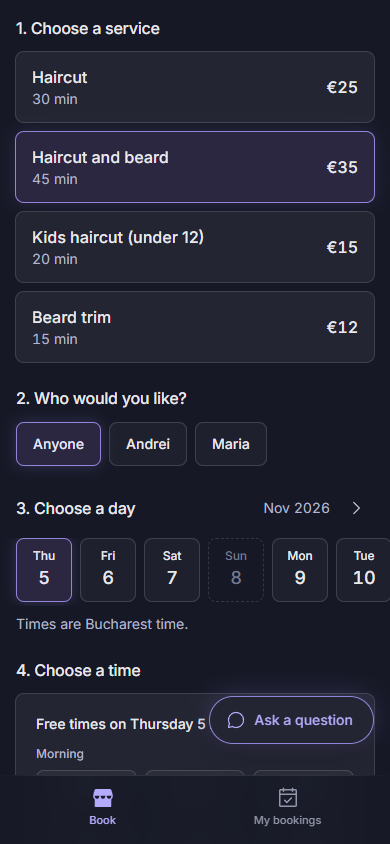
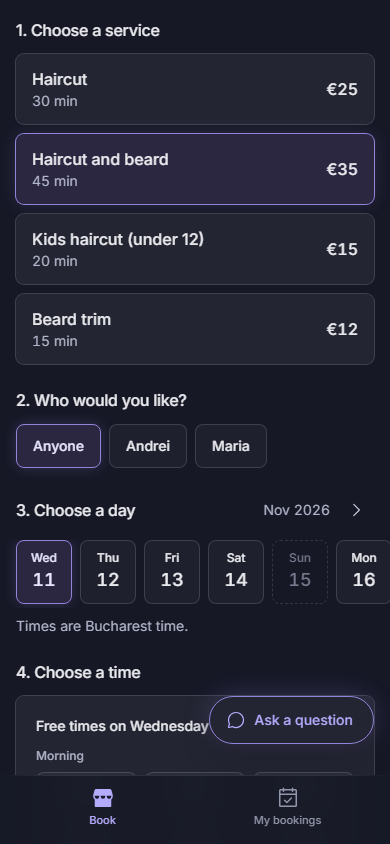
Bookbell: EN · RO switch over the screens, drop Read the code
Fresh screenshots of the same demo day in English and Romanian; a small
card-stock switch (hidden without JavaScript) swaps the three screens and
their descriptions. Only Try the live demo stays under the text.

diff --git a/index.html b/index.html
@@ -96,17 +96,27 @@
       <p class="release-tag">Online booking for small shops.</p>
     </div>
 
+    <!-- The app speaks English and Romanian: this switch swaps the three screens (script.js). Hidden without JavaScript, so the English screens just show. -->
+    <div class="lang-pick" role="group" aria-label="Language of the app screens" hidden>
+      <button type="button" data-lang="en" aria-pressed="true">EN</button>
+      <span aria-hidden="true">·</span>
+      <button type="button" data-lang="ro" aria-pressed="false" lang="ro">RO</button>
+    </div>
+
     <ul class="inserts" aria-label="Screens from the live Bookbell app">
       <li class="insert">
-        <img src="assets/screens/bookbell-today.png" alt="Bookbell owner's Today screen: a Next up card for the 09:30 haircut with Call, Email and Details buttons, then the whole day's bookings with a glowing line for now, and a tab bar with a round plus button" width="390" height="844" loading="lazy">
+        <img src="assets/screens/bookbell-today.png" alt="Bookbell owner's Today screen: a Next up card for the 09:30 haircut with Call, Email and Details buttons, then the whole day's bookings with a glowing line for now, and a tab bar with a round plus button" width="390" height="844" loading="lazy"
+          data-ro-src="assets/screens/bookbell-today-ro.png" data-ro-alt="The owner's Today screen in Romanian (Azi): the Next up card (Urmează, la 09:30) with Call, Email and Details buttons, then the whole day's bookings, and the tab bar Azi, Calendar, Programări, Salon">
         <p class="insert-label">Owner's Today</p>
       </li>
       <li class="insert">
-        <img src="assets/screens/bookbell-booking.png" alt="Bookbell booking page for a demo barber shop: services with prices, Haircut and beard selected, a choice of barber, and a strip of days to choose from" width="390" height="844" loading="lazy">
+        <img src="assets/screens/bookbell-booking.png" alt="Bookbell booking page for a demo barber shop: services with prices, Haircut and beard selected, a choice of barber, and a strip of days to choose from" width="390" height="844" loading="lazy"
+          data-ro-src="assets/screens/bookbell-booking-ro.png" data-ro-alt="The booking page in Romanian for Frizeria Demo: services priced in lei, Tuns și barbă selected, a choice of barber (Oricine, Andrei, Maria), and a strip of days to choose from">
         <p class="insert-label">Booking page</p>
       </li>
       <li class="insert">
-        <img src="assets/screens/bookbell-my-bookings.png" alt="Bookbell My bookings for a customer: two upcoming bookings, each with the time, service, price and shop, and buttons to change the time, add it to a calendar or cancel" width="390" height="844" loading="lazy">
+        <img src="assets/screens/bookbell-my-bookings.png" alt="Bookbell My bookings for a customer: two upcoming bookings, each with the time, service, price and shop, and buttons to change the time, add it to a calendar or cancel" width="390" height="844" loading="lazy"
+          data-ro-src="assets/screens/bookbell-my-bookings-ro.png" data-ro-alt="My bookings in Romanian (Programările mele): two upcoming bookings at Frizeria Demo with prices in lei, and buttons to change the time (Schimbă ora), add it to a calendar or cancel (Anulează)">
         <p class="insert-label">My bookings</p>
       </li>
     </ul>
@@ -124,7 +134,6 @@
       <p class="built">Next.js · TypeScript · Supabase · Postgres</p>
       <div class="release-links">
         <a class="ghost" href="https://bookbell.vercel.app" rel="noopener">Try the live demo <svg class="ico-sm" aria-hidden="true"><use href="assets/icons.svg#i-arrow"/></svg></a>
-        <a class="ghost" href="https://github.com/ghejus/bookbell" rel="noopener">Read the code <svg class="ico-sm" aria-hidden="true"><use href="assets/icons.svg#i-arrow"/></svg></a>
       </div>
       <p class="fine">Demo shops hold sample data. The chat helper runs in a free practice mode.</p>
     </div>

diff --git a/styles.css b/styles.css
@@ -192,6 +192,32 @@ html, body { overflow-x: clip; }
 .banner span { display: block; }
 .release-tag { font-family: var(--serif); font-size: clamp(1.15rem, 1rem + .5vw, 1.5rem); color: var(--gold); }
 
+/* EN · RO: two little card-stock tabs over the screens. The chosen one is face up (stock with the gold-rule ring); the other is printed in gold on the felt. */
+.lang-pick {
+  margin-top: 56px;
+  display: flex; align-items: center; gap: 10px;
+  font-family: var(--display); font-weight: 800; font-size: 15px; letter-spacing: .14em;
+  color: var(--gold);
+}
+.lang-pick[hidden] { display: none; }
+.lang-pick button {
+  min-width: 52px; min-height: 40px; padding: 8px 12px 7px;
+  border: 0; border-radius: 6px;
+  background: transparent; color: var(--gold);
+  font: inherit; letter-spacing: inherit;
+  box-shadow: inset 0 0 0 1px rgba(201, 154, 62, .55);
+  cursor: pointer;
+  transition: background-color .25s, color .25s, rotate .45s cubic-bezier(.16, 1, .3, 1);
+}
+.lang-pick button:hover { background: rgba(236, 201, 112, .12); }
+.lang-pick button[aria-pressed="true"] {
+  background: var(--stock); color: var(--ink);
+  box-shadow: inset 0 0 0 2px var(--stock), inset 0 0 0 3px var(--gold-rule), 0 6px 12px -4px rgba(0, 0, 0, .5);
+  rotate: -2deg;
+  cursor: default;
+}
+.lang-pick + .inserts { margin-top: 32px; }
+
 .inserts {
   list-style: none; margin: 72px 0 0; padding: 0;
   display: flex; justify-content: center; align-items: flex-start; gap: clamp(24px, 4vw, 64px);
@@ -298,7 +324,7 @@ html, body { overflow-x: clip; }
 }
 @media (prefers-reduced-motion: reduce) {
   html { scroll-behavior: auto; }
-  .slab, .insert, .cta, .ghost { transition: none; }
+  .slab, .insert, .cta, .ghost, .lang-pick button { transition: none; }
   .ghost:hover { rotate: -1.5deg; translate: none; }
   .release-links .ghost:nth-child(2):hover { rotate: 1.5deg; }
 }
@@ -340,6 +366,8 @@ html, body { overflow-x: clip; }
     scrollbar-width: none;
   }
   .inserts::-webkit-scrollbar { display: none; }
+  .lang-pick { margin-top: 40px; }
+  .lang-pick + .inserts { margin-top: 8px; }
   .insert { flex: none; width: min(72vw, 280px); scroll-snap-align: center; }
   .insert:nth-child(n) { transform: none; }
   .film { width: min(72vw, 280px); margin-top: 32px; rotate: none; }

diff --git a/script.js b/script.js
@@ -28,6 +28,37 @@ if (slab && fine.matches && !calm.matches) {
   });
 }
 
+// Bookbell's screens in English or Romanian. Each screenshot carries its Romanian
+// picture and description in data-ro-src / data-ro-alt; the English ones are kept
+// the first time we swap. The switch is hidden in the HTML so it only shows when this runs.
+const langPick = document.querySelector(".lang-pick");
+
+if (langPick) {
+  const shots = [...document.querySelectorAll("#bookbell .insert img[data-ro-src]")];
+  for (const img of shots) {
+    img.dataset.enSrc = img.getAttribute("src");
+    img.dataset.enAlt = img.getAttribute("alt");
+  }
+  const buttons = [...langPick.querySelectorAll("button[data-lang]")];
+
+  const show = (lang) => {
+    for (const img of shots) {
+      img.src = img.dataset[`${lang}Src`];
+      img.alt = img.dataset[`${lang}Alt`];
+    }
+    for (const b of buttons) b.setAttribute("aria-pressed", String(b.dataset.lang === lang));
+  };
+
+  for (const b of buttons) b.addEventListener("click", () => show(b.dataset.lang));
+
+  // Fetch the Romanian pictures early when the visitor heads for the switch, so the swap is instant.
+  langPick.addEventListener("pointerenter", () => {
+    for (const img of shots) new Image().src = img.dataset.roSrc;
+  }, { once: true });
+
+  langPick.hidden = false;
+}
+
 // The launch film plays, muted, while at least half of it is on screen, and pauses when it leaves.
 // If the visitor pauses it themselves, it stays paused. Reduced motion: no autoplay, just the play button.
 const film = document.querySelector(".film-video");
